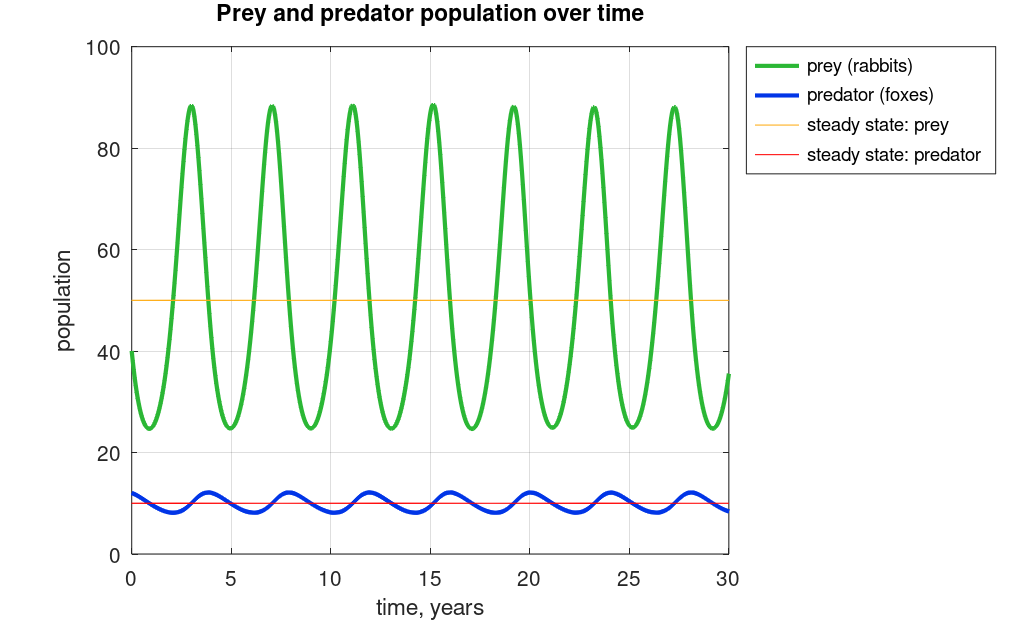
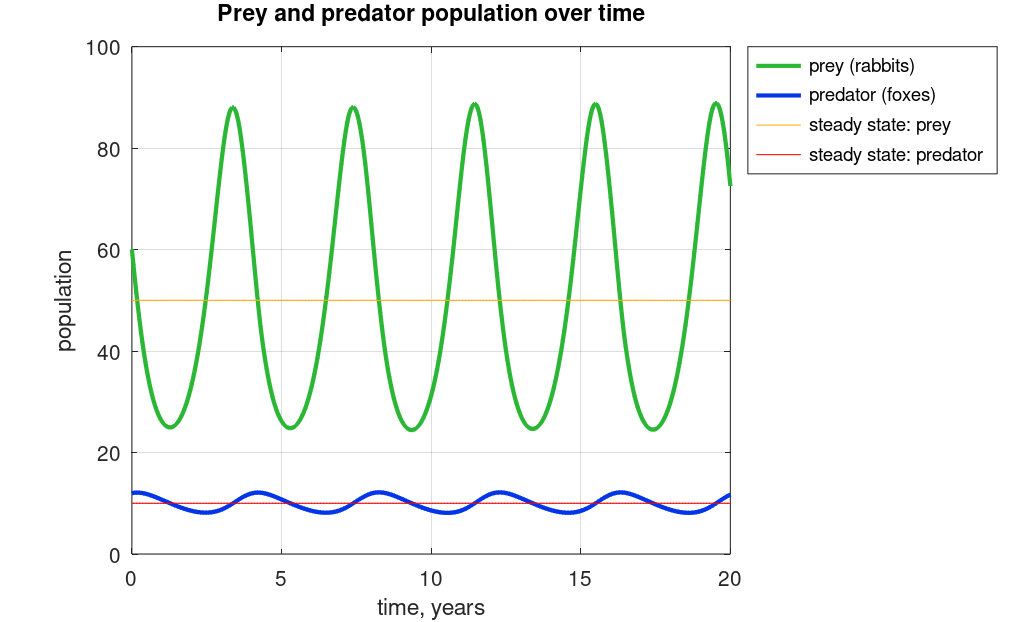
fix: change y0 and years number for illustrative plots

diff --git a/main_predator_prey_model_study.m b/main_predator_prey_model_study.m
@@ -3,11 +3,11 @@ model.betta = 0.5;
 model.c = 0.5;
 model.d = 0.01;
 
-n_years = 30;
+n_years = 20;
 
 steady_state = [model.betta / model.d, model.alpha / model.c];
 
-y0 = steady_state .* [0.8, 1.2];
+y0 = steady_state .* [1.2, 1.2];
 
 palette = containers.Map({'prey', 'predator', 'prey_steady_state', 'predator_steady_state'}, {'#2BB735', '#0135E7', '#FEAB12', '#FF0000'});
 
